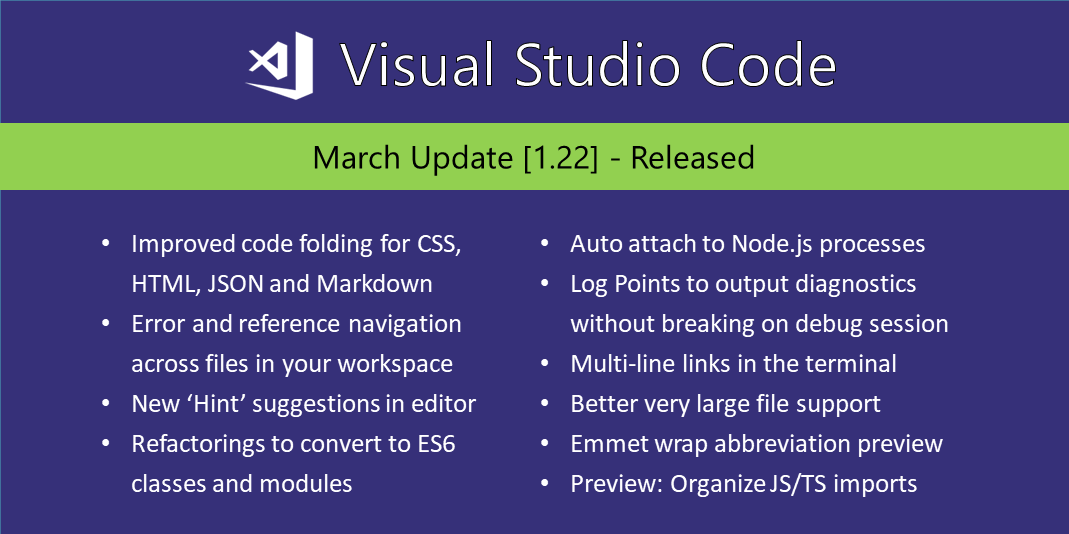
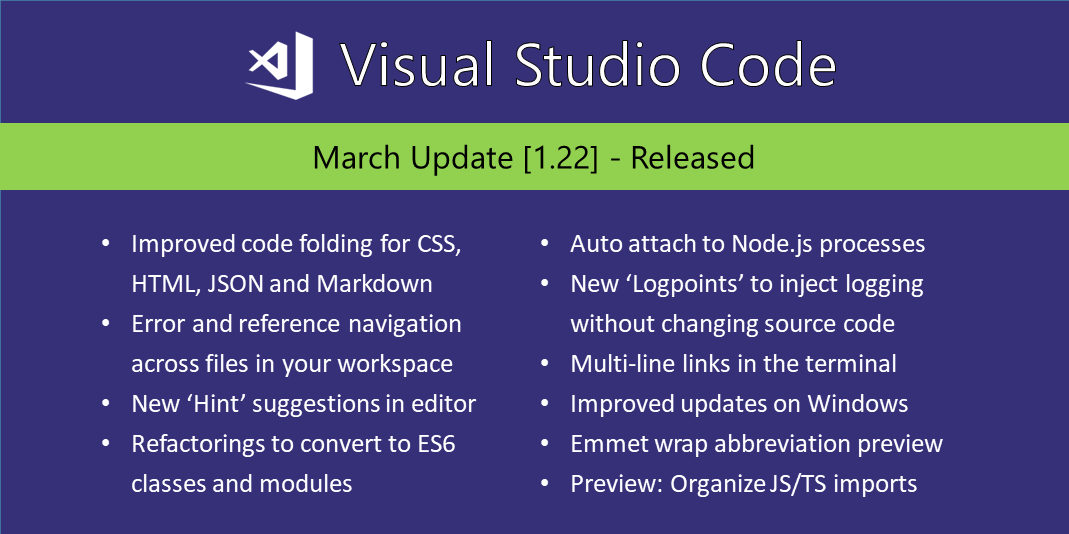
Log Point to Logpoint

Changed region(s): [[0.5248, 0.5094, 0.8644, 0.5693], [0.5248, 0.7191, 0.8644, 0.779], [0.6174, 0.5993, 0.8952, 0.6292]]

diff --git a/release-notes/v1_22.md b/release-notes/v1_22.md
@@ -14,7 +14,7 @@ Welcome to the March 2018 release of Visual Studio Code. There are a number of s
 * **[New Hint suggestions](#hints-in-the-editor)** - Makes it easy to spot suggested fixes or refactorings in the editor.
 * **[Convert to ES6 refactoring](#suggestion-code-actions-for-javascript-and-typescript)** - New Code Actions to convert to ES6 classes and modules.
 * **[Auto attach to process](#node-debugging)** - Automatically attach the debugger to running Node.js processes.
-* **[Log Points](#log-points)** - Log diagnostic messages without changing code or breaking on your debug session.
+* **[Logpoints](#logpoints)** - Inject logging without changing source code or restarting your debug session.
 * **[Better large file support](#easier-way-to-open-large-files)** - Faster syntax highlighting and easily increase memory for very large files.
 * **[Multi-line links in the terminal](#better-support-for-multi-line-links)** - Paths and URLs can span lines in the Integrated Terminal.
 * **[Emmet wrap preview](#emmet)** - Live preview for Emmet's wrap with abbreviation functionality.
@@ -218,17 +218,17 @@ When using VS Code as a Git editor and Git is triggered from the Integrated Term
 
 ## Debugging
 
-### Log Points
+### Logpoints
 
-This milestone includes our first work towards **Log Points**. A Log Point is a variant of a breakpoint that does not "break" into the debugger but instead logs a message to the console. Log points are especially useful for debugging production servers which cannot be stopped.
+This milestone includes our first work towards **Logpoints**. A Logpoint is a variant of a breakpoint that does not "break" into the debugger but instead logs a message to the console. Logpoints are especially useful for injecting logging while debugging production servers which cannot be stopped.
 
-A Log Point is represented by a "diamond" shaped icon. Log messages are plain text but can include expressions to be evaluated within curly braces ('{}').
+A Logpoint is represented by a "diamond" shaped icon. Log messages are plain text but can include expressions to be evaluated within curly braces ('{}').
 
-![Log Points](images/1_22/log-points.gif)
+![Logpoints](images/1_22/log-points.gif)
 
-Just like regular breakpoints, Log Points can be enabled or disabled and can also be controlled by a condition and/or hit count.
+Just like regular breakpoints, Logpoints can be enabled or disabled and can also be controlled by a condition and/or hit count.
 
-Log points are currently supported by VS Code's built-in Node.js debugger, but we expect that other debug extensions will follow soon.
+Logpoints are currently supported by VS Code's built-in Node.js debugger, but we expect that other debug extensions will follow soon.
 
 ### postDebugTask in launch.json
 
@@ -451,9 +451,9 @@ export namespace window {
 
 ### Debug Adapter Protocol
 
-**Log Point support**
+**Logpoint support**
 
-The newly introduced Log Points are surfaced in the Debug Adapter Protocol as a new attribute `logMessage` on the `SourceBreakpoint` and as a new capability `supportsLogPoints`. A debug adapter that supports Log Points returns `true` for the `supportsLogPoints` capability and does not 'break' (stop) for a non-empty `logMessage` attribute but logs the message instead. Expressions within curly braces ('{...}') are evaluated and the result replaces the '{...}' in the log message.
+The newly introduced Logpoints are surfaced in the Debug Adapter Protocol as a new attribute `logMessage` on the `SourceBreakpoint` and as a new capability `supportsLogPoints`. A debug adapter that supports Logpoints returns `true` for the `supportsLogPoints` capability and does not 'break' (stop) for a non-empty `logMessage` attribute but logs the message instead. Expressions within curly braces ('{...}') are evaluated and the result replaces the '{...}' in the log message.
 
 **New `clientName` attribute for `initialize` request**
 
